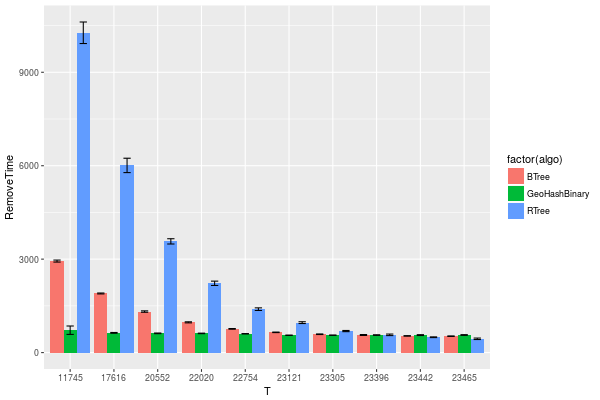
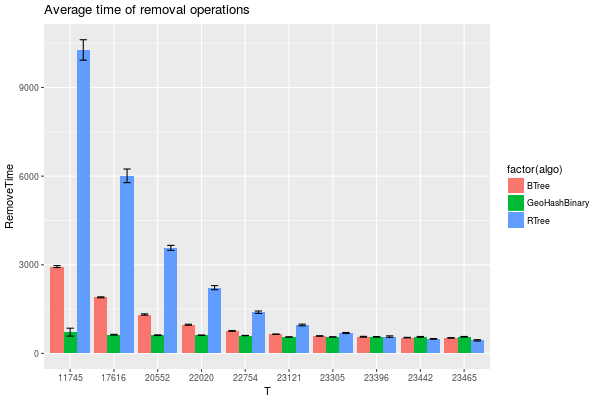
upd: analysis on the removal benchmark

diff --git a/data/cicero/exp20170914091842/exp.rst b/data/cicero/exp20170914091842/exp.rst
@@ -1,6 +1,6 @@
-================
-Experiment Diary
-================
+=================
+Removal benchmark
+=================
 
 
 .. contents::
@@ -243,7 +243,7 @@ The measured times are reported in terms of % of Removals:
     |        0.001 | \                 | \                      |
     +--------------+-------------------+------------------------+
 
-2 Analisys
+2 Analysis
 ----------
 
 2.1 Results
@@ -254,9 +254,10 @@ The measured times are reported in terms of % of Removals:
 
 .. code:: R
 
-    df %>% filter(remove > 0) %>%
+    df %>% filter(!is.na(remove)) %>%
+        mutate(remove = as.numeric(remove)) %>%
         group_by(algo,T) %>%
-        summarize(RemoveTime = signif(mean(as.numeric(remove))), stdv = signif(sd(as.numeric(remove)))) %>%
+        summarize(RemoveTime = signif(mean(remove)), stdv = signif(sd(remove))) %>%
         arrange(T,algo)
 
 .. table::
@@ -332,11 +333,11 @@ Plot an overview of every benchmark , doing average of times.
 
 .. code:: R
 
-    df %>% filter(remove > 0) %>% 
+    df %>% filter(!is.na(remove)) %>% 
         mutate(remove=as.numeric(remove)) %>%
         mutate(remove=ifelse(algo != "GeoHashBinary", remove + insert, remove)) %>% # Remove actually accounts for remove + a small insertion 
         group_by(algo,T) %>%
-        summarize(RemoveTime = mean(as.numeric(remove)), stdv = sd(as.numeric(remove))) %>%
+        summarize(RemoveTime = mean(remove), RemoveSum = sum(remove), stdv = sd(remove)) %>%
         mutate(T = as.factor(T))-> dfplot
 
     dfplot
@@ -350,7 +351,8 @@ Plot an overview of every benchmark , doing average of times.
         ggplot( aes(x=T,y=RemoveTime, fill=factor(algo))) + 
         geom_bar(stat="identity", position="dodge")+
         geom_errorbar( position=position_dodge(0.9), 
-                       aes(ymin = RemoveTime - stdv, ymax = RemoveTime + stdv), width=0.5)
+                       aes(ymin = RemoveTime - stdv, ymax = RemoveTime + stdv), width=0.5)+
+        labs(title = "Average time of removal operations") 
 
 .. image:: ./img/overview.png
 
@@ -603,3 +605,109 @@ Bimodal behaviour, it doesn't make sense to do an average of removals together w
         labs(title = "Average Insertions and Removals") 
 
 .. image:: ./img/totalAvgRm.png
+
+2.1.4 Conclusion
+^^^^^^^^^^^^^^^^
+
+We need to find a tradeoff between these two plots: 
+
+.. image:: img/totalInsRm.png
+ .. image:: img/overview.png
+
+Best T value for optimal Remove Time:
+
+.. table::
+
+    +---------------+-------+---------------------+-----------+
+    | algo          |     T | RemoveTime avg (ms) |      stdv |
+    +===============+=======+=====================+===========+
+    | BTree         | 23465 |          526.188970 |  8.053197 |
+    +---------------+-------+---------------------+-----------+
+    | GeoHashBinary | 23121 |          556.606700 |  4.005477 |
+    +---------------+-------+---------------------+-----------+
+    | RTree         | 23465 |          442.277040 | 22.851265 |
+    +---------------+-------+---------------------+-----------+
+
+Best T value for optimal total execution time:
+
+.. table::
+
+    +---------------+-------+--------------+----------+-----------+
+    | algo          |     T |     sum (ms) | avg (ms) |       std |
+    +===============+=======+==============+==========+===========+
+    | BTree         | 17616 | 20841.163000 | 0.709849 | 22.148266 |
+    +---------------+-------+--------------+----------+-----------+
+    | GeoHashBinary | 20552 | 33280.174000 | 1.259468 | 10.718993 |
+    +---------------+-------+--------------+----------+-----------+
+    | RTree         | 17616 | 53837.282000 | 1.833695 | 70.172511 |
+    +---------------+-------+--------------+----------+-----------+
+
+Compute a tradeoff between total running time and time spent on removals. 
+
+.. code:: R
+
+    library(ggplot2)
+    require(grid)
+
+    inner_join(dfplot,totalPlot) %>% 
+    #mutate ( ratio = (sqrt(RemoveTime * total))) %>%
+    #mutate ( ratio = sqrt(RemoveSum * total)) %>%
+    mutate ( ratio = (sqrt(RemoveTime * avg))) %>%
+        ggplot( aes(x=T,y=ratio, fill=factor(algo))) + 
+        geom_bar(stat="identity", position="dodge") + 
+        annotate(geom = "text",x = unique(dfplot$T), y = 132,
+                 #label = (23488 - unique(as.numeric(as.character(dfplot$T)))), size = 4) + # size of the removal 
+                 label = paste( round((23488 - unique(as.numeric(as.character(dfplot$T))))/23488 * 100,2), "%"), size = 4) + # percentage remove from the max allowed. 
+        annotate(geom = "text",x = unique(dfplot$T), y = 140,
+                 label = paste( round((23488 - unique(as.numeric(as.character(dfplot$T))))/ unique(as.numeric(as.character(dfplot$T))) * 100,2), "%"), size = 4) + # perecentage of overflow relative to the min elements required.
+        labs(x = "T", 
+             y = "sqrt(Avg Remove Time X Avg total running time)  ms",
+             title="% of overflow allowed relative to T \n% of removed elements relative to the max (23.488.000 elements)"
+             )-> p
+
+    p
+
+.. image:: ./img/removalTradeoff.png
+
+
+Best T Values based on relation ( Avg Remove time × Avg running time): 
+
+.. code:: R
+
+    inner_join(dfplot,totalPlot) %>% 
+    mutate ( ratio = sqrt(RemoveTime * avg)) %>%
+    group_by(algo) %>% 
+    top_n(-1,ratio) -> tmp
+    names(tmp) = c("algo","T","Rm Time Avg","Rm Time Sum","Rm  stdv","Total Time sum","Total Time Avg","Total stdv","ratio")
+    
+    tmp
+
+.. table::
+
+    +---------------+-------+-------------+-------------+----------+----------------+----------------+------------+--------+
+    | algo          |     T | Rm Time Avg | Rm Time Sum | Rm  stdv | Total Time sum | Total Time Avg | Total stdv |  ratio |
+    +===============+=======+=============+=============+==========+================+================+============+========+
+    | BTree         | 22020 |     970.873 |   15533.975 |   17.256 |      26699.386 |          1.070 |     24.568 | 32.229 |
+    +---------------+-------+-------------+-------------+----------+----------------+----------------+------------+--------+
+    | GeoHashBinary | 17616 |     633.379 |    2533.517 |   12.922 |      34272.027 |          1.167 |      7.381 | 27.191 |
+    +---------------+-------+-------------+-------------+----------+----------------+----------------+------------+--------+
+    | RTree         | 23305 |     691.369 |   88495.277 |   18.703 |     112545.550 |          4.755 |     50.647 | 57.334 |
+    +---------------+-------+-------------+-------------+----------+----------------+----------------+------------+--------+
+
+2.1.5 Next tests
+^^^^^^^^^^^^^^^^
+
+We will have to run this benchmar again using the optimal T parameter for the PMQ (17616) and configuring the optimal removing performance for the Rtree and the Btree.
+
+
+.. table::
+
+    +-------+-----------------------+
+    | \     | optimal % of overflow |
+    +=======+=======================+
+    | BTree |                 6.67% |
+    +-------+-----------------------+
+    | RTree |                 0.79% |
+    +-------+-----------------------+
+    | PMQ   |                33.33% |
+    +-------+-----------------------+

diff --git a/README.rst b/README.rst
@@ -110,8 +110,8 @@ Test with a larger ammount of data -> 10\*8
 3 Benchmark Insert and Remove
 -----------------------------
 
-3.1 **ANALYSIS** [2017-09-14 Qui]  *bench_insert_remove_count* ``paper``  ``exp20170914091842``
-~~~~~~~~~~~~~~~~~~~~~~~~~~~~~~~~~~~~~~~~~~~~~~~~~~~~~~~~~~~~~~
+3.1 **DONE** [2017-09-14 Qui]  *bench_insert_remove_count* ``paper``  ``exp20170914091842``
+~~~~~~~~~~~~~~~~~~~~~~~~~~~~~~~~~~~~~~~~~~~~~~~~~~~~~~~~~~
 
 Test performance of removals in the PMQ. 
 

diff --git a/data/cicero/exp20170923144931/exp.rst b/data/cicero/exp20170923144931/exp.rst
@@ -30,6 +30,7 @@ Elements:
 - Total elements = 26.000.000
 
 Use the syntehic queries gerenerate by the DoE in `Twitter Data <../../queriesLHS.rst>`_.
+
 queries Dataset : `../../queriesTwitter.csv <../../queriesTwitter.csv>`_.
 
 2 Analysis
